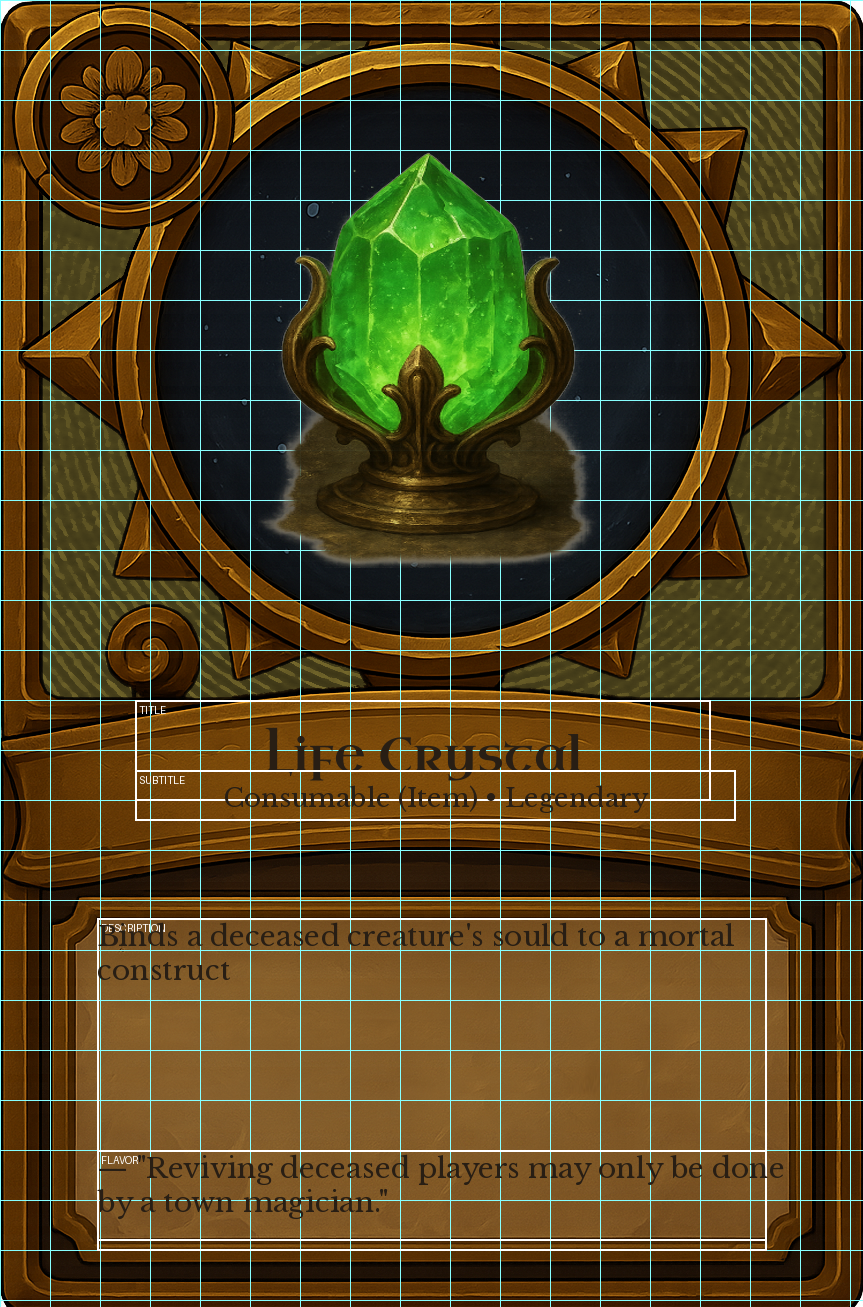
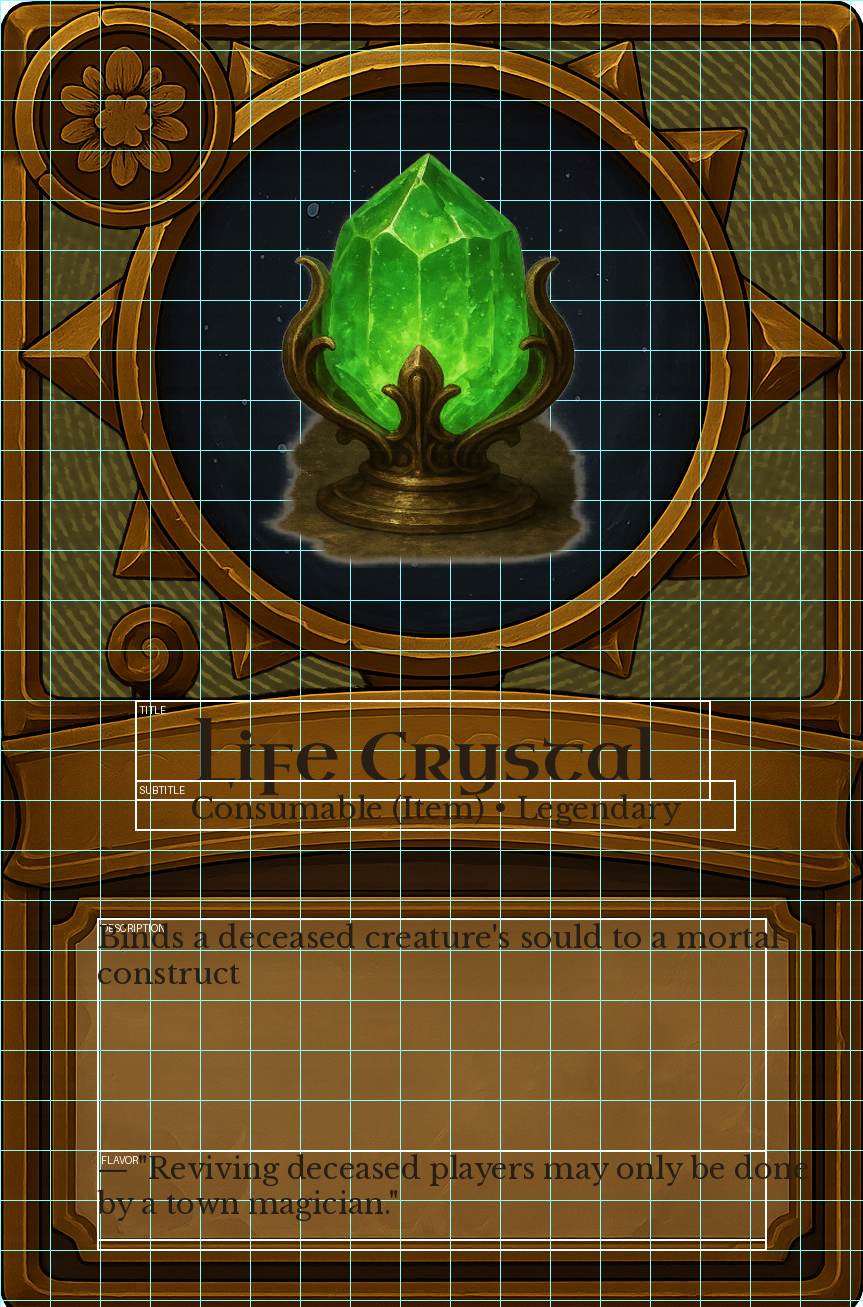
Font sizing

Changed region(s): [[0.1506, 0.5509, 0.8134, 0.6427], [0.1205, 0.8875, 0.934, 0.9487], [0.1205, 0.7039, 0.9038, 0.7651]]

diff --git a/source/main.py b/source/main.py
@@ -23,11 +23,11 @@ OUTPUT_DIR.mkdir(exist_ok=True)
 # ======================
 # Fonts
 # ======================
-title_font = ImageFont.truetype("fonts/UncialAntiqua-Regular.ttf", 48)
-subtitle_font = ImageFont.truetype("fonts/LibreBaskerville-Regular.ttf", 26)
-body_font = ImageFont.truetype("fonts/LibreBaskerville-Regular.ttf", 28)
-bold_font = ImageFont.truetype("fonts/LibreBaskerville-Bold.ttf", 28)
-italic_font = ImageFont.truetype("fonts/LibreBaskerville-Italic.ttf", 28)
+title_font = ImageFont.truetype("fonts/UncialAntiqua-Regular.ttf", 70)
+subtitle_font = ImageFont.truetype("fonts/LibreBaskerville-Regular.ttf", 30)
+body_font = ImageFont.truetype("fonts/LibreBaskerville-Regular.ttf", 30)
+bold_font = ImageFont.truetype("fonts/LibreBaskerville-Bold.ttf", 30)
+italic_font = ImageFont.truetype("fonts/LibreBaskerville-Italic.ttf", 30)
 
 fonts_dict = {
     "normal": body_font,
